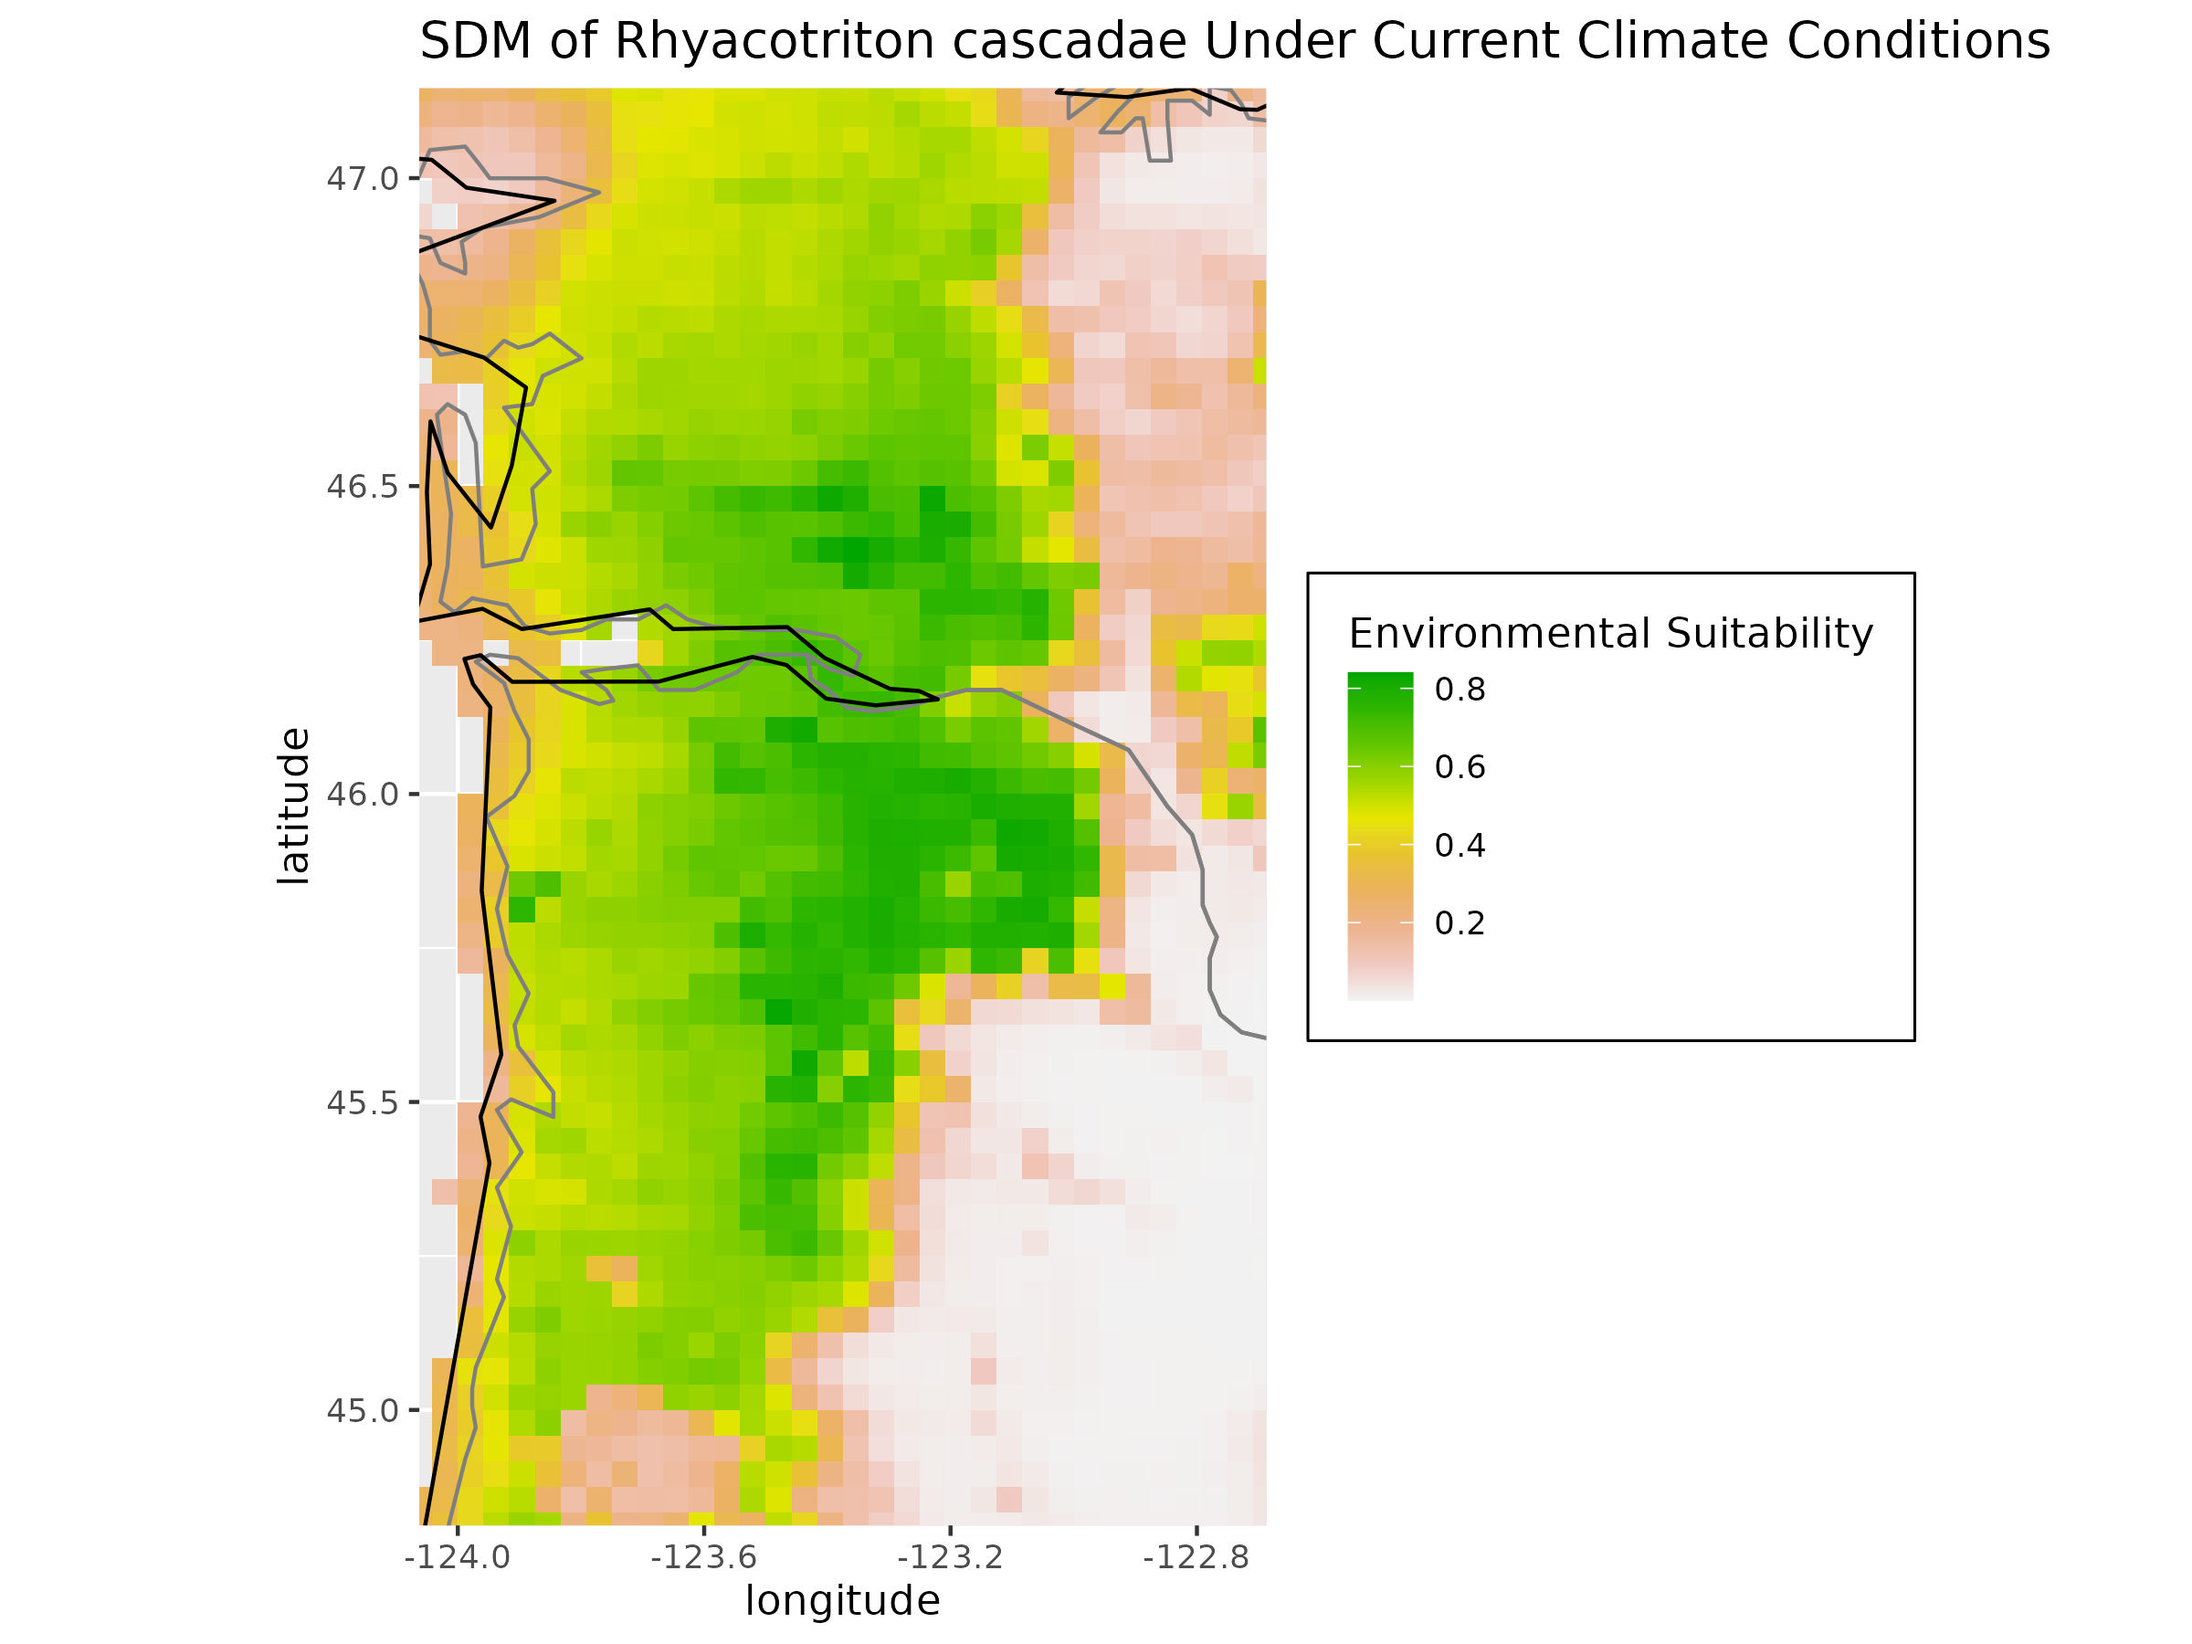
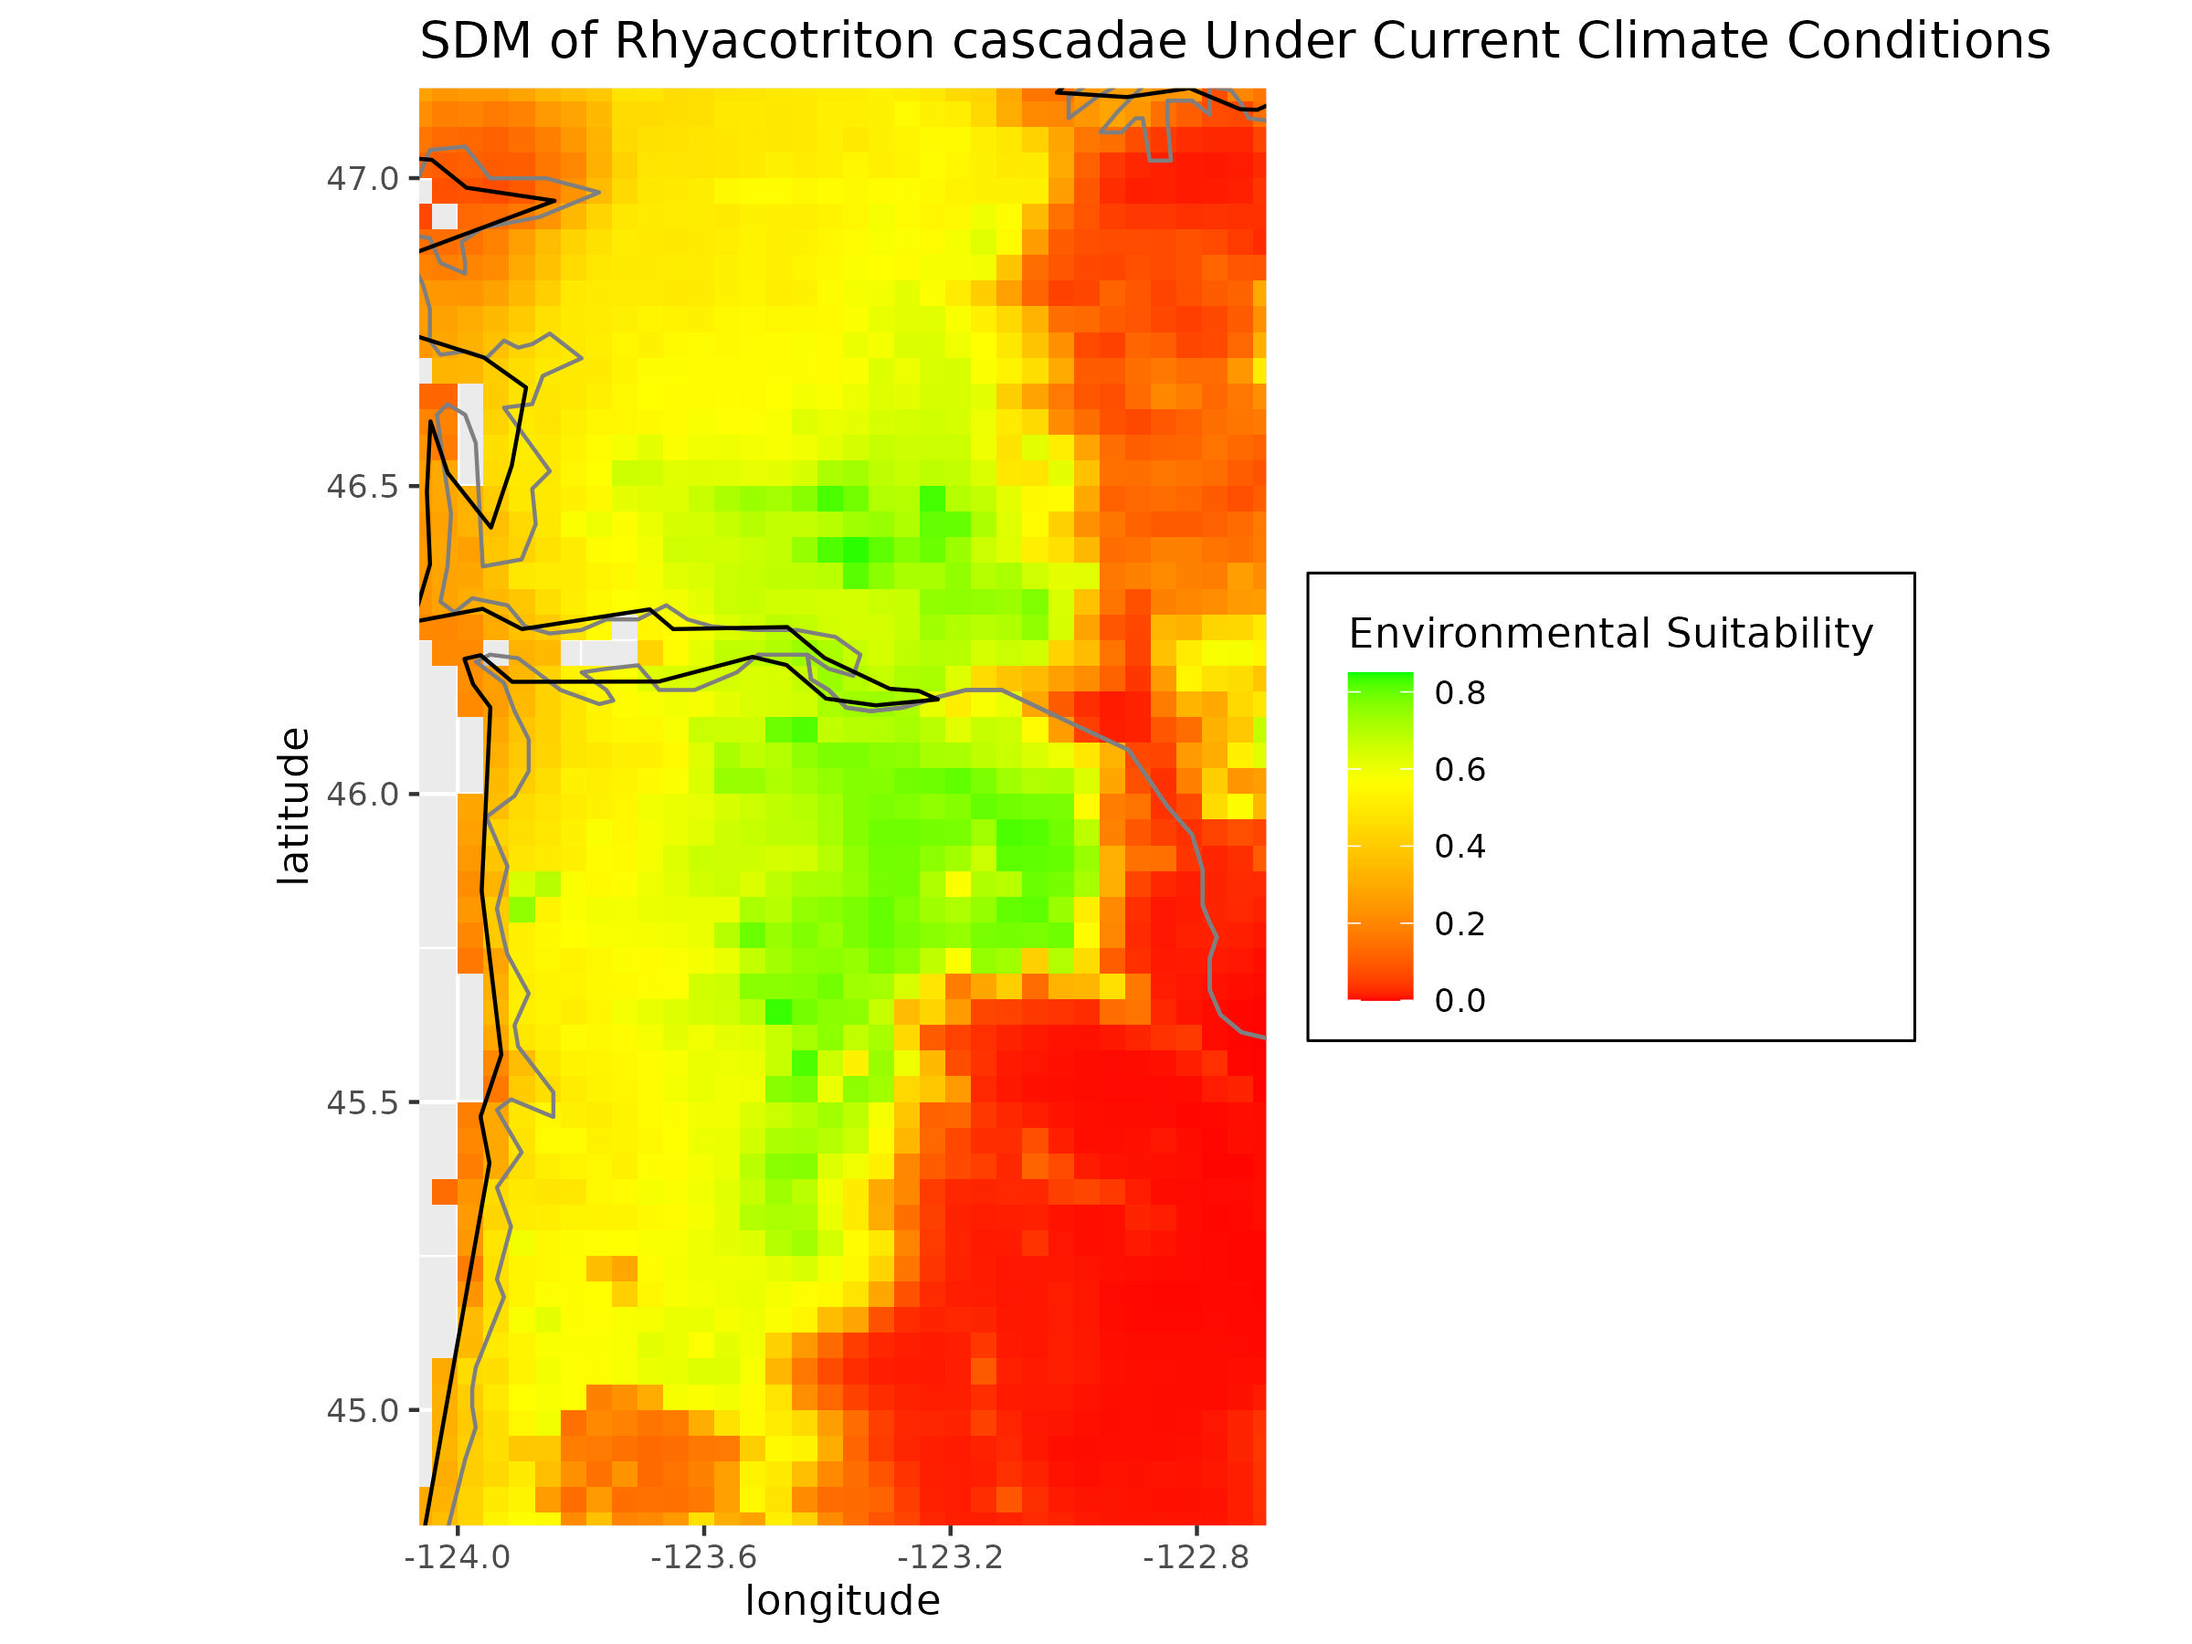
Fixed color scaling between current and future SDM

diff --git a/maxent_outputs/maxent.html b/maxent_outputs/maxent.html
@@ -1,6 +1,6 @@
 <title>Maxent model</title>
 <CENTER><H1>Maxent model</H1></CENTER>
-<br> This page contains some analysis of the Maxent model result, created Tue Apr 09 19:52:32 UTC 2024 using 'dismo' version  1.3-14 & Maxent version 3.4.3.  If you would like to do further analyses, the raw data used here is linked to at the end of this page.<br>
+<br> This page contains some analysis of the Maxent model result, created Tue Apr 16 16:37:58 UTC 2024 using 'dismo' version  1.3-14 & Maxent version 3.4.3.  If you would like to do further analyses, the raw data used here is linked to at the end of this page.<br>
 <br><HR><H2>Analysis of omission/commission</H2>
 The following picture shows the omission rate and predicted area as a function of the cumulative threshold.  The omission rate is is calculated both on the training presence records, and (if test data are used) on the test records.  The omission rate should be close to the predicted omission, because of the definition of the cumulative threshold.
 <br><img src="plots/species_omission.png"><br>
@@ -23,7 +23,7 @@ The data used in the above analysis is contained in the next links.  Please see 
 <a href = "maxentResults.csv">Results for all species modeled in the same Maxent run, with summary statistics and (optionally) jackknife results</a><br>
 <br><br>
 Regularized training gain is 0.230, training AUC is 0.696, unregularized training gain is 0.282.<br>
-Algorithm terminated after 500 iterations (1 seconds).<br>
+Algorithm terminated after 500 iterations (0 seconds).<br>
 <br>
 The follow settings were used during the run:<br>
 234 presence records used for training.<br>

diff --git a/maxent_outputs/species.html b/maxent_outputs/species.html
@@ -1,6 +1,6 @@
 <title>Maxent model for species</title>
 <CENTER><H1>Maxent model for species</H1></CENTER>
-<br> This page contains some analysis of the Maxent model for species, created Tue Apr 09 19:52:32 UTC 2024 using Maxent version 3.4.3.  If you would like to do further analyses, the raw data used here is linked to at the end of this page.<br>
+<br> This page contains some analysis of the Maxent model for species, created Tue Apr 16 16:37:58 UTC 2024 using Maxent version 3.4.3.  If you would like to do further analyses, the raw data used here is linked to at the end of this page.<br>
 <br><HR><H2>Analysis of omission/commission</H2>
 The following picture shows the omission rate and predicted area as a function of the cumulative threshold.  The omission rate is is calculated both on the training presence records, and (if test data are used) on the test records.  The omission rate should be close to the predicted omission, because of the definition of the cumulative threshold.
 <br><img src="plots/species_omission.png"><br>
@@ -23,7 +23,7 @@ The data used in the above analysis is contained in the next links.  Please see 
 <a href = "maxentResults.csv">Results for all species modeled in the same Maxent run, with summary statistics and (optionally) jackknife results</a><br>
 <br><br>
 Regularized training gain is 0.230, training AUC is 0.696, unregularized training gain is 0.282.<br>
-Algorithm terminated after 500 iterations (1 seconds).<br>
+Algorithm terminated after 500 iterations (0 seconds).<br>
 <br>
 The follow settings were used during the run:<br>
 234 presence records used for training.<br>
